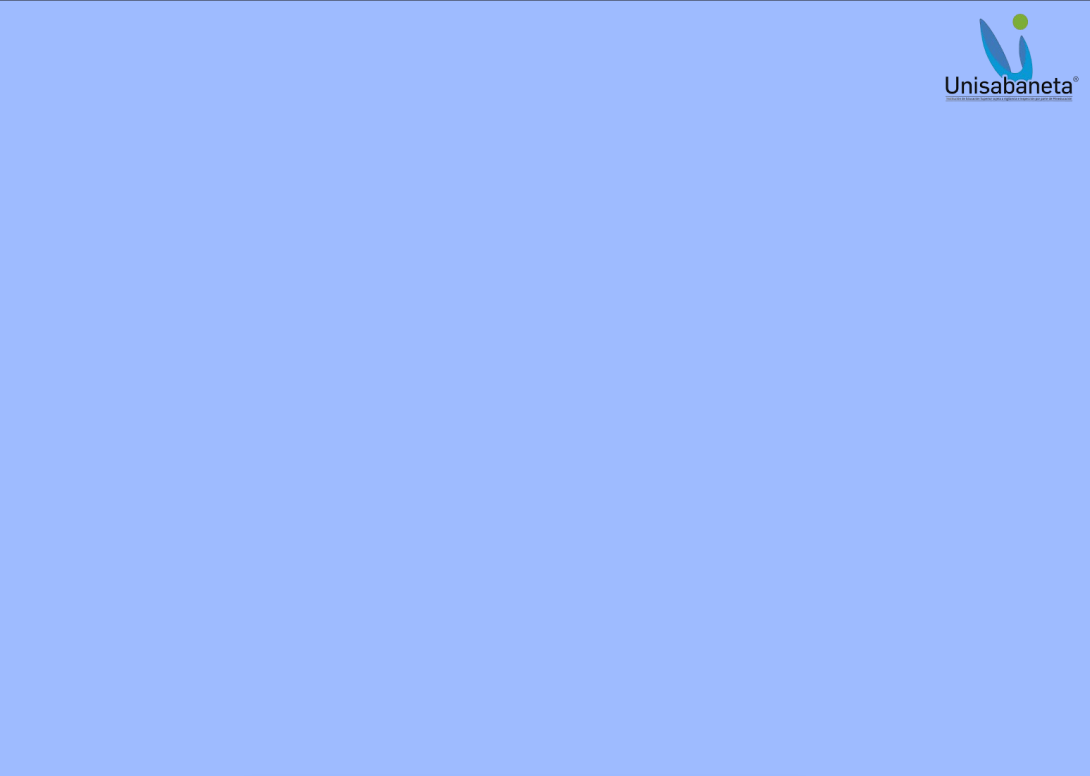
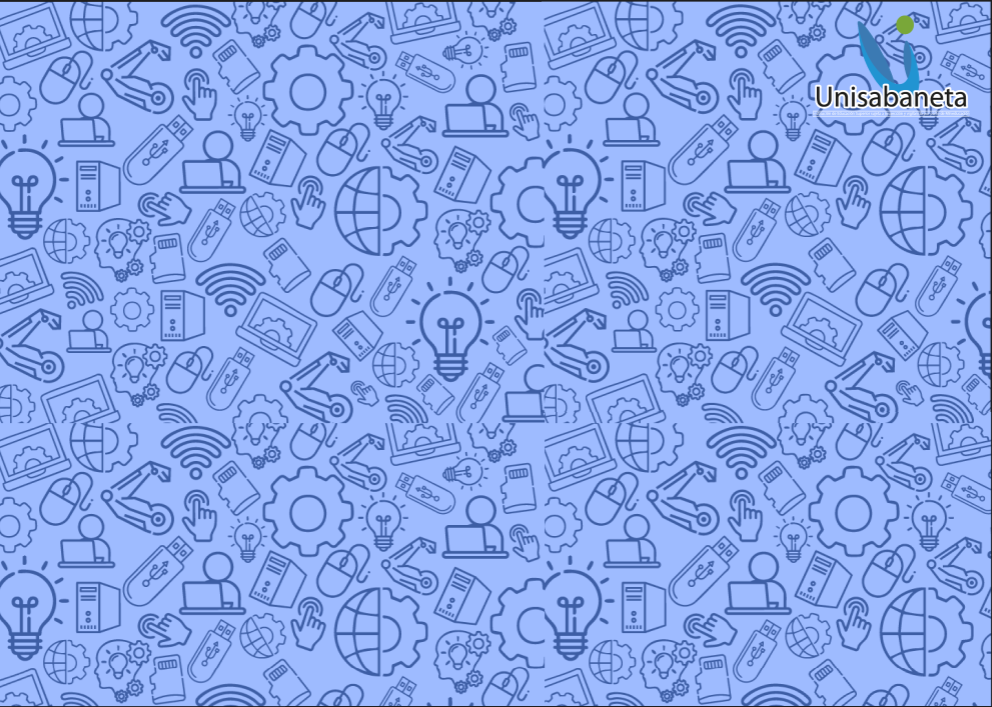
foto base

Changed region(s): [[0.0, 0.0, 1.0, 1.0]]

diff --git a/facial_recognition/Programa/versiones/1.1/registro_vista.py b/facial_recognition/Programa/versiones/1.1/registro_vista.py
@@ -1,5 +1,6 @@
 import tkinter as tk
 from tkinter import ttk, messagebox
+from PIL import Image, ImageTk
 import subprocess
 import threading
 import sys
@@ -19,14 +20,31 @@ except Exception as e:
 
 
 def registrar_rostro(root, abrir_menu_principal):
-    # Ocultar la ventana principal
+    # Ocultar ventana principal
     root.withdraw()
 
-    # Crear ventana registro
+    # Crear ventana de registro
     ventana_registro = tk.Toplevel(root)
     ventana_registro.title("Registro de Usuario")
     ventana_registro.configure(bg="#a6c7e9")
     ventana_registro.attributes("-fullscreen", True)
+
+    # --- Imagen de fondo con manejo de errores ---
+    ancho_pantalla = ventana_registro.winfo_screenwidth()
+    alto_pantalla = ventana_registro.winfo_screenheight()
+
+    try:
+        ruta_imagen = os.path.join(RUTA_BASE, "imagenes", "base.png")
+        imagen_fondo = Image.open(ruta_imagen)
+        imagen_fondo = imagen_fondo.resize((ancho_pantalla, alto_pantalla))
+        fondo_tk = ImageTk.PhotoImage(imagen_fondo)
+
+        label_fondo = tk.Label(ventana_registro, image=fondo_tk)
+        label_fondo.image = fondo_tk
+        label_fondo.place(x=0, y=0, relwidth=1, relheight=1)
+    except Exception as e:
+        print(f"⚠ No se pudo cargar la imagen de fondo 'base.png': {e}")
+        ventana_registro.configure(bg="#a6c7e9")  # color plano si no hay imagen
 
     # ---------- CONTENEDOR CENTRAL ----------
     frame_central = tk.Frame(
@@ -121,63 +139,22 @@ def registrar_rostro(root, abrir_menu_principal):
 
     # ---------- FUNCIÓN ESTILO BOTONES ----------
     def estilo_boton(widget, color_base, color_hover):
-        def on_enter(e):
-            widget.config(bg=color_hover)
-        def on_leave(e):
-            widget.config(bg=color_base)
+        def on_enter(e): widget.config(bg=color_hover)
+        def on_leave(e): widget.config(bg=color_base)
         widget.bind("<Enter>", on_enter)
         widget.bind("<Leave>", on_leave)
 
-    # ---------- BOTÓN INICIAR ----------
-    btn_iniciar = tk.Button(
-        frame_central,
-        text="Iniciar Registro",
-        bg="#1a73e8",
-        fg="black",
-        font=("Segoe UI", 13, "bold"),
-        width=15, height=1,
-        relief="solid",
-        bd=2,
-        highlightbackground="#000000",
-        cursor="hand2"
-    )
-    btn_iniciar.pack(pady=(20, 10))
-    estilo_boton(btn_iniciar, "#1a73e8", "#1558a6")
-
-    # ---------- BOTÓN VOLVER ----------
-    def volver_menu_admin():
-        ventana_registro.destroy()
-        root.deiconify()  # Muestra el menú admin al instante
-
-    btn_volver = tk.Button(
-        frame_central,
-        text="Volver al Menú",
-        command=volver_menu_admin,
-        bg="#c62828",
-        fg="black",
-        font=("Segoe UI", 13, "bold"),
-        width=15, height=1,
-        relief="solid",
-        bd=2,
-        highlightbackground="#000000",
-        cursor="hand2"
-    )
-    btn_volver.pack(pady=(10, 20))
-    estilo_boton(btn_volver, "#c62828", "#a31818")
-
-    # ---- VALIDACIONES ----
+    # ---------- FUNCIÓN DE VALIDACIÓN ----------
     def validar_campos(cc, nombre):
-        # Validar identificación: solo números y al menos 6 dígitos
         if not re.fullmatch(r"\d{6,}", cc):
             messagebox.showwarning("Advertencia", "La identificación debe contener solo números y al menos 6 dígitos.")
             return False
-        # Validar nombre: solo letras y espacios, mínimo 8 letras
         if not re.fullmatch(r"[A-Za-zÁÉÍÓÚáéíóúñÑ ]{8,}", nombre):
             messagebox.showwarning("Advertencia", "El nombre debe contener solo letras y tener mínimo 8 caracteres.")
             return False
         return True
 
-    # ---- FUNCIÓN DE REGISTRO ----
+    # ---------- FUNCIÓN DE REGISTRO ----------
     def iniciar_registro():
         cc = cc_var.get().strip()
         nombre = nombre_var.get().strip()
@@ -220,13 +197,46 @@ def registrar_rostro(root, abrir_menu_principal):
                 messagebox.showerror("Error", f"Error al guardar en MongoDB:\n{db_error}")
             finally:
                 ventana_registro.destroy()
-                root.deiconify()  # vuelve al menú admin al terminar
+                root.deiconify()
 
         threading.Thread(target=ejecutar_script).start()
 
-    btn_iniciar.config(command=iniciar_registro)
+    # ---------- BOTONES ----------
+    btn_iniciar = tk.Button(
+        frame_central,
+        text="Iniciar Registro",
+        command=iniciar_registro,
+        bg="#1a73e8",
+        fg="white",
+        font=("Segoe UI", 13, "bold"),
+        width=15, height=1,
+        relief="solid",
+        bd=2,
+        cursor="hand2"
+    )
+    btn_iniciar.pack(pady=(20, 10))
+    estilo_boton(btn_iniciar, "#1a73e8", "#1558a6")
 
-    # --- Mostrar correctamente ---
+    def volver_menu_admin():
+        ventana_registro.destroy()
+        root.deiconify()
+
+    btn_volver = tk.Button(
+        frame_central,
+        text="Volver al Menú",
+        command=volver_menu_admin,
+        bg="#c62828",
+        fg="white",
+        font=("Segoe UI", 13, "bold"),
+        width=15, height=1,
+        relief="solid",
+        bd=2,
+        cursor="hand2"
+    )
+    btn_volver.pack(pady=(10, 20))
+    estilo_boton(btn_volver, "#c62828", "#a31818")
+
+    # --- Mostrar ventana correctamente ---
     ventana_registro.update()
     ventana_registro.lift()
     ventana_registro.focus_force()

diff --git a/facial_recognition/Programa/versiones/1.1/inventario_usuarios.py b/facial_recognition/Programa/versiones/1.1/inventario_usuarios.py
@@ -1,6 +1,10 @@
 import tkinter as tk
 from tkinter import ttk, messagebox
 from pymongo import MongoClient
+from PIL import Image, ImageTk
+import os
+from utilidades import RUTA_BASE  # ✅ Igual que en tu login
+
 
 # --- Conexión directa a MongoDB ---
 try:
@@ -21,6 +25,26 @@ def ver_inventario(root, abrir_menu_principal):
     ventana_inv.title("Inventario de Usuarios")
     ventana_inv.configure(bg="#a6c7e9")
     ventana_inv.attributes("-fullscreen", True)
+
+    # ---------- 💠 IMAGEN DE FONDO (usando RUTA_BASE + carpeta imagenes) ----------
+    try:
+        # Obtener tamaño de pantalla
+        sw = ventana_inv.winfo_screenwidth()
+        sh = ventana_inv.winfo_screenheight()
+
+        # Ruta absoluta de la imagen base
+        ruta_fondo = os.path.join(RUTA_BASE, "imagenes", "base_usuario.png")
+
+        # Cargar y redimensionar
+        img = Image.open(ruta_fondo)
+        img = img.resize((sw, sh))
+        fondo_img = ImageTk.PhotoImage(img)
+
+        fondo_label = tk.Label(ventana_inv, image=fondo_img)
+        fondo_label.image = fondo_img  # evitar recolección
+        fondo_label.place(x=0, y=0, relwidth=1, relheight=1)
+    except Exception as e:
+        print(f"⚠ No se pudo cargar la imagen de fondo: {e}")
 
     # ---------- CONTENEDOR CENTRAL ----------
     frame_central = tk.Frame(
@@ -146,9 +170,8 @@ def ver_inventario(root, abrir_menu_principal):
         widget.bind("<Leave>", on_leave)
 
     # ---------- BOTÓN VOLVER ----------
-
     btn_volver = tk.Button(
-        ventana_inv,  # 👈 lo movemos a la ventana principal, no al frame central
+        ventana_inv,  # 👈 colocado sobre la ventana principal
         text="Volver al menú principal",
         command=volver_menu_admin,
         bg="#c62828",
@@ -161,7 +184,7 @@ def ver_inventario(root, abrir_menu_principal):
         cursor="hand2",
         highlightthickness=0
     )
-    btn_volver.place(relx=0.5, rely=0.93, anchor="center")  # 👈 se coloca abajo centrado
+    btn_volver.place(relx=0.5, rely=0.93, anchor="center")  # 👈 centrado al fondo
     estilo_boton(btn_volver, "#c62828", "#ff6b6b")
 
     ventana_inv.protocol("WM_DELETE_WINDOW", volver_menu_admin)

diff --git a/facial_recognition/Programa/versiones/1.1/prueba.py b/facial_recognition/Programa/versiones/1.1/prueba.py
@@ -1,0 +1,24 @@
+from pymongo import MongoClient
+
+client = MongoClient("mongodb://localhost:27017/")
+db = client["rostrosDB"]
+coleccion = db["personas"]
+"""
+# CREATE
+cliente = {"nombre": "Juan", "edad": 25}
+insertado = coleccion.insert_one(cliente)
+print("Creado con ID:", insertado.inserted_id)
+
+# READ
+for c in coleccion.find():
+    print(c)
+
+# UPDATE
+coleccion.update_one({"nombre": "Juan"}, {"$set": {"edad": 26}})
+print("Cliente actualizado")
+
+
+"""
+# DELETE
+coleccion.delete_one({"nombre": "Juan"})
+print("Cliente eliminado")

diff --git a/facial_recognition/Programa/versiones/1.1/reconocimiento_optimizado.py b/facial_recognition/Programa/versiones/1.1/reconocimiento_optimizado.py
@@ -39,10 +39,10 @@ FPS_DISPLAY_SMOOTH = 0.9
 # ============================================================
 # --- OPCIONES DE CÁMARA ---
 # 1⃣ Cámara del PC (predeterminada)
-cap = cv2.VideoCapture(0)
+#cap = cv2.VideoCapture(0)
 
 # 2⃣ Cámara externa USB (por ejemplo, iPhone con Iriun o EpocCam por cable)
-#cap = cv2.VideoCapture(2)  # o prueba con 2 si hay varias cámaras
+cap = cv2.VideoCapture(2)  # o prueba con 2 si hay varias cámaras
 
 if not cap.isOpened():
     print("Error: no se pudo acceder a la cámara.")

diff --git a/facial_recognition/Programa/versiones/1.1/capturadora_optimizada.py b/facial_recognition/Programa/versiones/1.1/capturadora_optimizada.py
@@ -14,10 +14,10 @@ personas = db["personas"]
 
 # --- OPCIONES DE CÁMARA ---
 # 1⃣ Cámara del PC (predeterminada)
-cap = cv2.VideoCapture(0)
+#cap = cv2.VideoCapture(0)
 
 # 2⃣ Cámara externa USB (por ejemplo, iPhone con Iriun o EpocCam por cable)
-#cap = cv2.VideoCapture(2)  # o prueba con 2 si hay varias cámaras
+cap = cv2.VideoCapture(2)  # o prueba con 2 si hay varias cámaras
 
 # --- Verificación de la cámara ---
 if not cap.isOpened():
